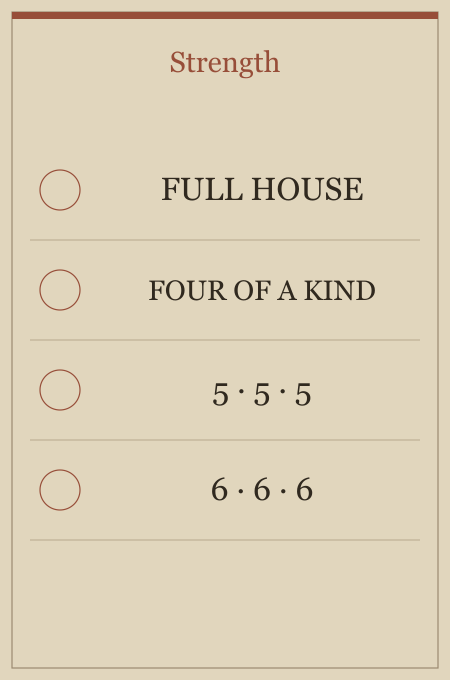
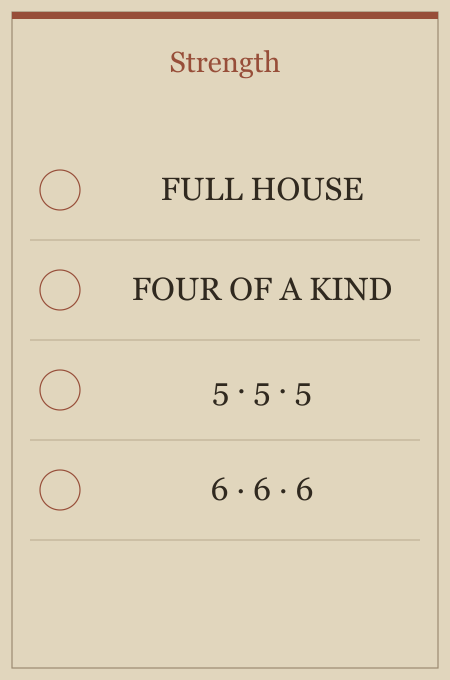
Align adopted layout B tray bounds and unify board typography

Changed region(s): [[0.28, 0.4015, 0.8711, 0.4632]]

diff --git a/tools/print.ts b/tools/print.ts
@@ -19,27 +19,29 @@ const text = (
   `<text x="${x}" y="${y}" text-anchor="middle" font-family="Georgia, serif" font-size="${size}" fill="${color}" ${extra}>${esc(s)}</text>`;
 const wrap = (w: number, h: number, body: string) =>
   `<svg xmlns="http://www.w3.org/2000/svg" width="${w}" height="${h}" viewBox="0 0 ${w} ${h}"><rect width="100%" height="100%" fill="#e1d6bd"/><rect x="12" y="12" width="${w - 24}" height="${h - 24}" fill="none" stroke="#9b8a70" stroke-width="1.2"/>${body}</svg>`;
-let body = text(268, 65, "DUNGEON", 24);
+const roleSize = 32;
+const headingSize = 29;
+let body = text(268, 65, "DUNGEON", headingSize);
 for (let i = 0; i < 5; i++) {
   const y = 190 + i * 170;
   if (i > 0) body += `<path d="M30 ${y - 85}H390" stroke="#b7a88d" stroke-width="1"/>`;
   body += text(90, y - 27, `B${i + 1}`, 18, "#76664f");
   body += `<circle cx="90" cy="${y}" r="24" fill="none" stroke="#b7a88d" stroke-width="1"/>`;
-  if (i < 4) body += text(260, y + 14, ["≥ 20", "≥ 24", "≥ 26", "≤ 9"][i], 46);
+  if (i < 4) body += text(260, y + 14, ["≥ 20", "≥ 24", "≥ 26", "≤ 9"][i], roleSize);
   else {
-    body += text(260, y - 6, "FIVE OF", 29);
-    body += text(260, y + 31, "A KIND", 29);
+    body += text(260, y - 6, "FIVE OF", roleSize);
+    body += text(260, y + 31, "A KIND", roleSize);
   }
 }
 await fs.writeFile("art/board.svg", wrap(420, 1020, body));
 await sharp(Buffer.from(wrap(420, 1020, body))).png().toFile(`${out}/board.png`);
 for (const [g, group] of GROUPS.entries()) {
   let b = `<rect x="12" y="12" width="426" height="7" fill="${COLORS[group]}"/>`;
-  b += text(225, 72, ["Strength", "Dexterity", "Intellect"][g], 29, COLORS[group]);
+  b += text(225, 72, ["Strength", "Dexterity", "Intellect"][g], headingSize, COLORS[group]);
   slots.filter((s) => s.group === group).forEach((s, i) => {
     const y = 190 + i * 100;
     b += `<path d="M30 ${y + 50}H420" stroke="#b7a88d" stroke-width="1"/><circle cx="60" cy="${y}" r="20" fill="none" stroke="${COLORS[group]}" stroke-width="1.2"/>`;
-    b += text(262, y + 10, s.mark, s.mark.length > 12 ? 28 : 32);
+    b += text(262, y + 10, s.mark, roleSize);
   });
   const svg = wrap(450, 680, b);
   await fs.writeFile(`art/${group}.svg`, svg);

diff --git a/src/layout.ts b/src/layout.ts
@@ -11,6 +11,23 @@ export const SKILLS: Record<(typeof GROUPS)[number], SkillId> = {
   dex: "skill_dex_acrobatics",
   int: "skill_int_metamorph",
 };
+export const DUNGEON = { x: -7.5, z: 0, width: 4.2, depth: 10.2 };
+export const ABILITY = { x: -2.7, width: 4.5, depth: 6.8, z: -1.7, gap: 0.35 };
+export const abilityX = (i: number) => ABILITY.x + i * (ABILITY.width + ABILITY.gap);
+const trayLeft = abilityX(0) - ABILITY.width / 2;
+const trayRight = abilityX(2) + ABILITY.width / 2;
+const trayTop = ABILITY.z + ABILITY.depth / 2 + ABILITY.gap;
+const trayBottom = DUNGEON.z + DUNGEON.depth / 2;
+const railWidth = 0.18;
+export const TRAY = {
+  x: (trayLeft + trayRight) / 2,
+  z: (trayTop + trayBottom) / 2,
+  width: trayRight - trayLeft - 2 * railWidth,
+  depth: trayBottom - trayTop - 2 * railWidth,
+  railWidth,
+  railHeight: 0.26,
+  floor: 0.18,
+};
 export type Slot = {
   id: CategoryId;
   group: CategoryGroup;
@@ -23,7 +40,7 @@ export const slots: Slot[] = [
   ...["≥ 20", "≥ 24", "≥ 26", "≤ 9", "FIVE OF A KIND"].map((mark, i) => ({
     id: `dungeon_floor_${i + 1}` as CategoryId,
     group: "dungeon" as const,
-    x: -7.5,
+    x: DUNGEON.x,
     z: -3.2 + i * 1.7,
     label: `B${i + 1}`,
     mark,
@@ -53,7 +70,7 @@ export const slots: Slot[] = [
     return entries.map(([id, mark], i) => ({
       id: `${group}_${id}` as CategoryId,
       group,
-      x: -2.7 + g * 4.85,
+      x: abilityX(g),
       z: -3.2 + i * 1.0,
       label: mark,
       mark,
@@ -61,9 +78,7 @@ export const slots: Slot[] = [
   }),
 ];
 export const slotById = new Map(slots.map((s) => [s.id, s]));
-export const TRAY = { x: 2.15, z: 3.55, width: 14.2, depth: 2.6, floor: 0.18 };
 export const SKILL_Z = 1.0;
-export const abilityX = (i: number) => -2.7 + i * 4.85;
 export const markerX = (slot: Slot) => slot.x - (slot.group === "dungeon" ? 1.2 : 1.65);
 export const assetUrl = (file: string) =>
   `${import.meta.env.BASE_URL}assets/${file}`;

diff --git a/src/scene.ts b/src/scene.ts
@@ -6,6 +6,8 @@ import {
   GROUPS,
   COLORS,
   TRAY,
+  DUNGEON,
+  ABILITY,
   SKILL_Z,
   SKILLS,
   assetUrl,
@@ -304,9 +306,9 @@ export class DungeonScene {
         roughness: 0.88,
       }),
     );
-    await this.board("board", 4.2, 10.2, -7.5, 0, 0.18);
+    await this.board("board", DUNGEON.width, DUNGEON.depth, DUNGEON.x, DUNGEON.z, 0.18);
     await Promise.all(
-      GROUPS.map((g, i) => this.board(g, 4.5, 6.8, abilityX(i), -1.7)),
+      GROUPS.map((g, i) => this.board(g, ABILITY.width, ABILITY.depth, abilityX(i), ABILITY.z)),
     );
     const rail = this.material("#694d34", 0.7);
     this.box(
@@ -320,20 +322,20 @@ export class DungeonScene {
     );
     for (const sign of [-1, 1]) {
       this.box(
-        TRAY.width + 0.35,
-        0.26,
-        0.18,
+        TRAY.width + 2 * TRAY.railWidth,
+        TRAY.railHeight,
+        TRAY.railWidth,
         TRAY.x,
-        0.13,
-        TRAY.z + (sign * (TRAY.depth + 0.18)) / 2,
+        TRAY.railHeight / 2,
+        TRAY.z + (sign * (TRAY.depth + TRAY.railWidth)) / 2,
         rail,
       );
       this.box(
-        0.18,
-        0.26,
+        TRAY.railWidth,
+        TRAY.railHeight,
         TRAY.depth,
-        TRAY.x + (-sign * (TRAY.width + 0.18)) / 2,
-        0.18,
+        TRAY.x + (sign * (TRAY.width + TRAY.railWidth)) / 2,
+        TRAY.railHeight / 2,
         TRAY.z,
         rail,
       );
